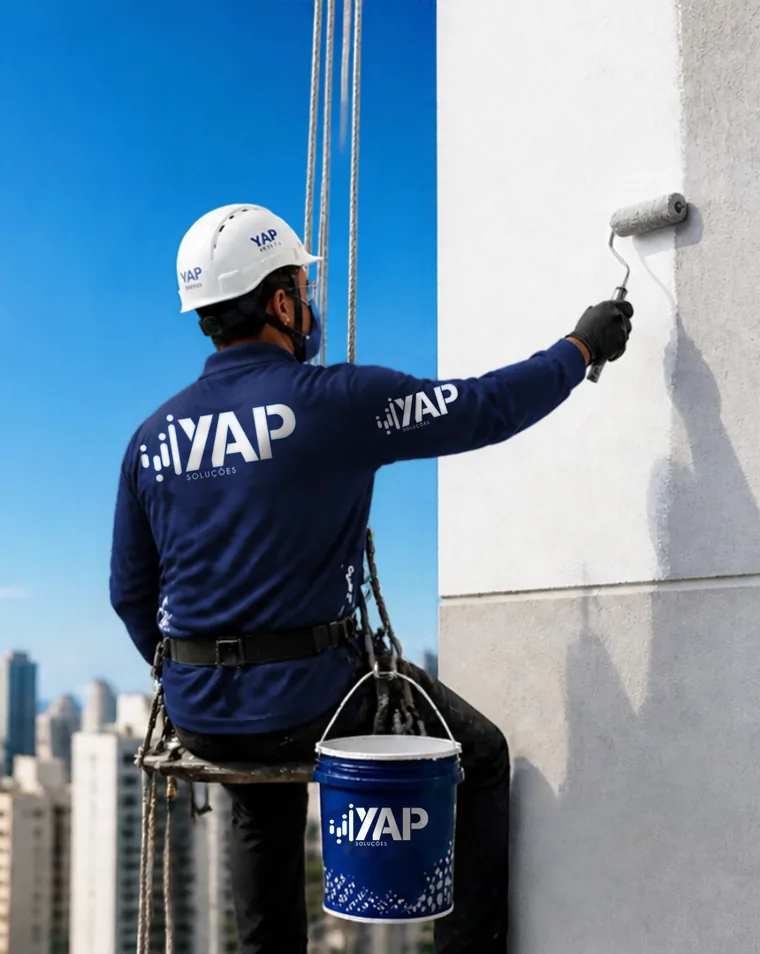
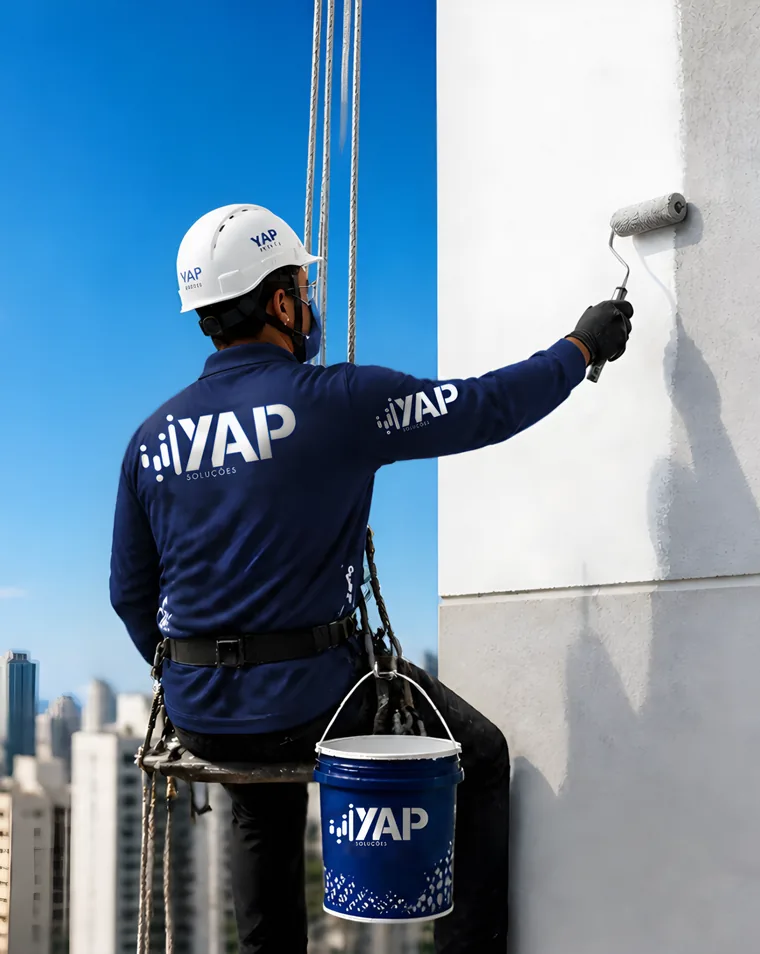
LP YAP: hero ampliada com Real-ESRGAN (até 3840 px) e sizes corrigido
A imagem cobre uma caixa alta e chega a ~2,7x a altura da tela; com 1600 px
ela era esticada mais de 2x em telas retina.

diff --git a/index.html b/index.html
@@ -11,10 +11,10 @@
 <link rel="apple-touch-icon" href="assets/img/marca/apple-touch-icon.png">
 <link rel="preload" href="assets/fonts/montserrat-var-latin.woff2" as="font" type="font/woff2" crossorigin>
 <link rel="preload" as="image" type="image/webp" media="(max-width: 767px)"
-      imagesrcset="assets/img/hero/pintor-yap-mobile-480.webp 480w, assets/img/hero/pintor-yap-mobile-760.webp 760w, assets/img/hero/pintor-yap-mobile-860.webp 860w" imagesizes="100vw">
+      imagesrcset="assets/img/hero/pintor-yap-mobile-480.webp 480w, assets/img/hero/pintor-yap-mobile-760.webp 760w, assets/img/hero/pintor-yap-mobile-1140.webp 1140w, assets/img/hero/pintor-yap-mobile-1720.webp 1720w" imagesizes="100vw">
 <link rel="preload" as="image" type="image/webp" media="(min-width: 768px)"
-      imagesrcset="assets/img/hero/pintor-yap-desktop-800.webp 800w, assets/img/hero/pintor-yap-desktop-1120.webp 1120w, assets/img/hero/pintor-yap-desktop-1600.webp 1600w" imagesizes="62vw">
-<link rel="stylesheet" href="assets/css/style.css?v=51">
+      imagesrcset="assets/img/hero/pintor-yap-desktop-800.webp 800w, assets/img/hero/pintor-yap-desktop-1120.webp 1120w, assets/img/hero/pintor-yap-desktop-1600.webp 1600w, assets/img/hero/pintor-yap-desktop-2400.webp 2400w, assets/img/hero/pintor-yap-desktop-3200.webp 3200w, assets/img/hero/pintor-yap-desktop-3840.webp 3840w" imagesizes="260vh">
+<link rel="stylesheet" href="assets/css/style.css?v=52">
 <script src="assets/js/main.js?v=12" defer></script>
 </head>
 <body>
@@ -68,13 +68,13 @@
     <div class="hero-media" id="heroMedia">
       <picture>
         <source type="image/webp" media="(min-width: 768px)"
-                srcset="assets/img/hero/pintor-yap-desktop-800.webp 800w, assets/img/hero/pintor-yap-desktop-1120.webp 1120w, assets/img/hero/pintor-yap-desktop-1600.webp 1600w" sizes="62vw">
+                srcset="assets/img/hero/pintor-yap-desktop-800.webp 800w, assets/img/hero/pintor-yap-desktop-1120.webp 1120w, assets/img/hero/pintor-yap-desktop-1600.webp 1600w, assets/img/hero/pintor-yap-desktop-2400.webp 2400w, assets/img/hero/pintor-yap-desktop-3200.webp 3200w, assets/img/hero/pintor-yap-desktop-3840.webp 3840w" sizes="260vh">
         <source type="image/jpeg" media="(min-width: 768px)"
-                srcset="assets/img/hero/pintor-yap-desktop-800.jpg 800w, assets/img/hero/pintor-yap-desktop-1120.jpg 1120w, assets/img/hero/pintor-yap-desktop-1600.jpg 1600w" sizes="62vw">
+                srcset="assets/img/hero/pintor-yap-desktop-800.jpg 800w, assets/img/hero/pintor-yap-desktop-1120.jpg 1120w, assets/img/hero/pintor-yap-desktop-1600.jpg 1600w, assets/img/hero/pintor-yap-desktop-2400.jpg 2400w, assets/img/hero/pintor-yap-desktop-3200.jpg 3200w, assets/img/hero/pintor-yap-desktop-3840.jpg 3840w" sizes="260vh">
         <source type="image/webp"
-                srcset="assets/img/hero/pintor-yap-mobile-480.webp 480w, assets/img/hero/pintor-yap-mobile-760.webp 760w, assets/img/hero/pintor-yap-mobile-860.webp 860w" sizes="100vw">
+                srcset="assets/img/hero/pintor-yap-mobile-480.webp 480w, assets/img/hero/pintor-yap-mobile-760.webp 760w, assets/img/hero/pintor-yap-mobile-1140.webp 1140w, assets/img/hero/pintor-yap-mobile-1720.webp 1720w" sizes="100vw">
         <img src="assets/img/hero/pintor-yap-mobile-760.jpg"
-             srcset="assets/img/hero/pintor-yap-mobile-480.jpg 480w, assets/img/hero/pintor-yap-mobile-760.jpg 760w, assets/img/hero/pintor-yap-mobile-860.jpg 860w" sizes="100vw"
+             srcset="assets/img/hero/pintor-yap-mobile-480.jpg 480w, assets/img/hero/pintor-yap-mobile-760.jpg 760w, assets/img/hero/pintor-yap-mobile-1140.jpg 1140w, assets/img/hero/pintor-yap-mobile-1720.jpg 1720w" sizes="100vw"
              width="760" height="954" fetchpriority="high" decoding="async"
              alt="Pintor com uniforme da YAP Soluções, preso em cadeirinha de rapel, pintando com rolo a fachada de um prédio alto">
       </picture>
